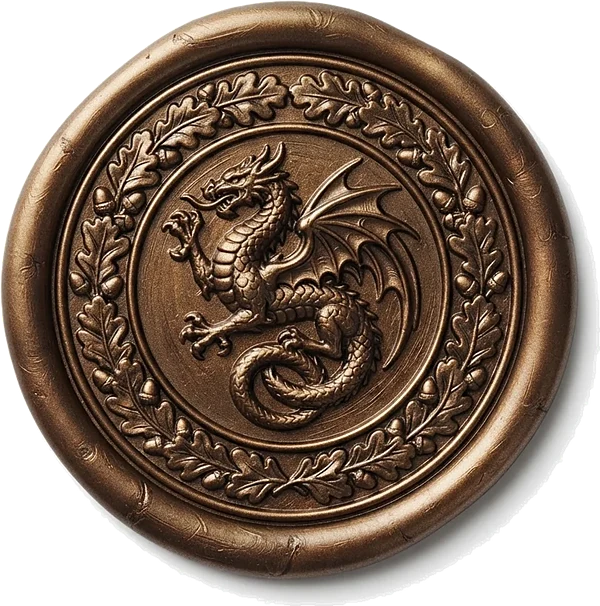
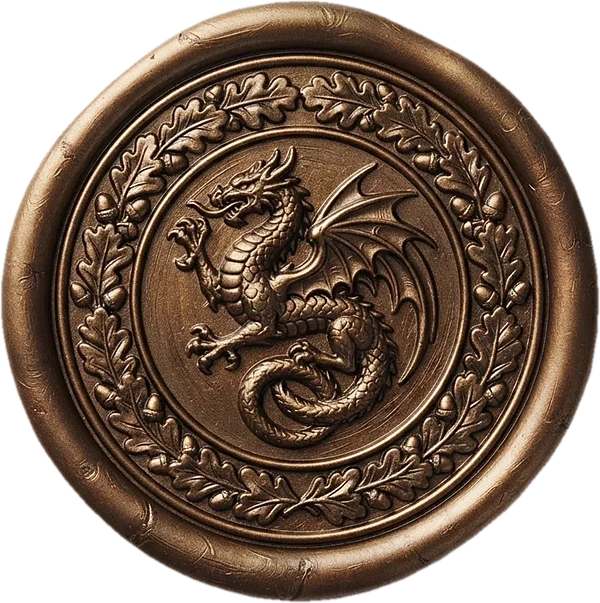
Citadelle : contours retouchés (plus de liseré blanc dans le bord frangé de l'enveloppe, plus de halo autour du cachet)
Claude-Session: https://claude.ai/code/session_01F2UgnuQq11Y7sRNXVNw92i

diff --git a/citadelle/faire-part.html b/citadelle/faire-part.html
@@ -44,7 +44,7 @@ body.ferme{overflow:hidden}
 </head>
 <body class="ferme" data-date="2027-09-25T15:00:00+02:00" data-evenement="Mariage Aliénor &amp; Gauthier" data-ville="Périgord" data-titre-std="Aliénor &amp; Gauthier — Save the date (démonstration)" data-blocs="decale" data-titres="grand" data-images="pleine" data-revele="flou" data-paral="vertical" data-cadre="plein" data-prog="frise" data-lieu="classique" data-tenue="image" data-compte="ligne" data-rep="classique" data-btn="fleche" data-teinte="clair" data-collection="citadelle" data-particules="or" data-trame="carnet">
 <link rel="preload" as="image" href="ouverture.webp" fetchpriority="high">
-<div class="ouverture attente" id="ouverture" style="--ratio:1400/991;--masque:url('ouverture.webp');--rabat:polygon(0 0,100% 0,100% 3%,50% 65%,0 2%);--devant:polygon(0 2%,50% 65%,100% 3%,100% 100%,0 100%);--verso:polygon(0 100%,100% 100%,100% 97%,50% 35%,0 98%);--doublure:linear-gradient(0deg,#3A1418,#5B1E24 55%,#A8874F);">
+<div class="ouverture attente" id="ouverture" style="--ratio:1400/993;--masque:url('ouverture.webp');--rabat:polygon(0 0,100% 0,100% 3%,50% 65%,0 2%);--devant:polygon(0 2%,50% 65%,100% 3%,100% 100%,0 100%);--verso:polygon(0 100%,100% 100%,100% 97%,50% 35%,0 98%);--doublure:linear-gradient(0deg,#3A1418,#5B1E24 55%,#A8874F);">
   <div class="enveloppe" role="button" aria-label="Ouvrir l'invitation">
     <div class="env-dos"></div>
     <div class="env-carte mini"><img class="mini-deco" src="haut.webp" alt=""><small>Mariage</small><b>Aliénor</b><i>&amp;</i><b>Gauthier</b><small>25 · 09 · 2027</small></div>
